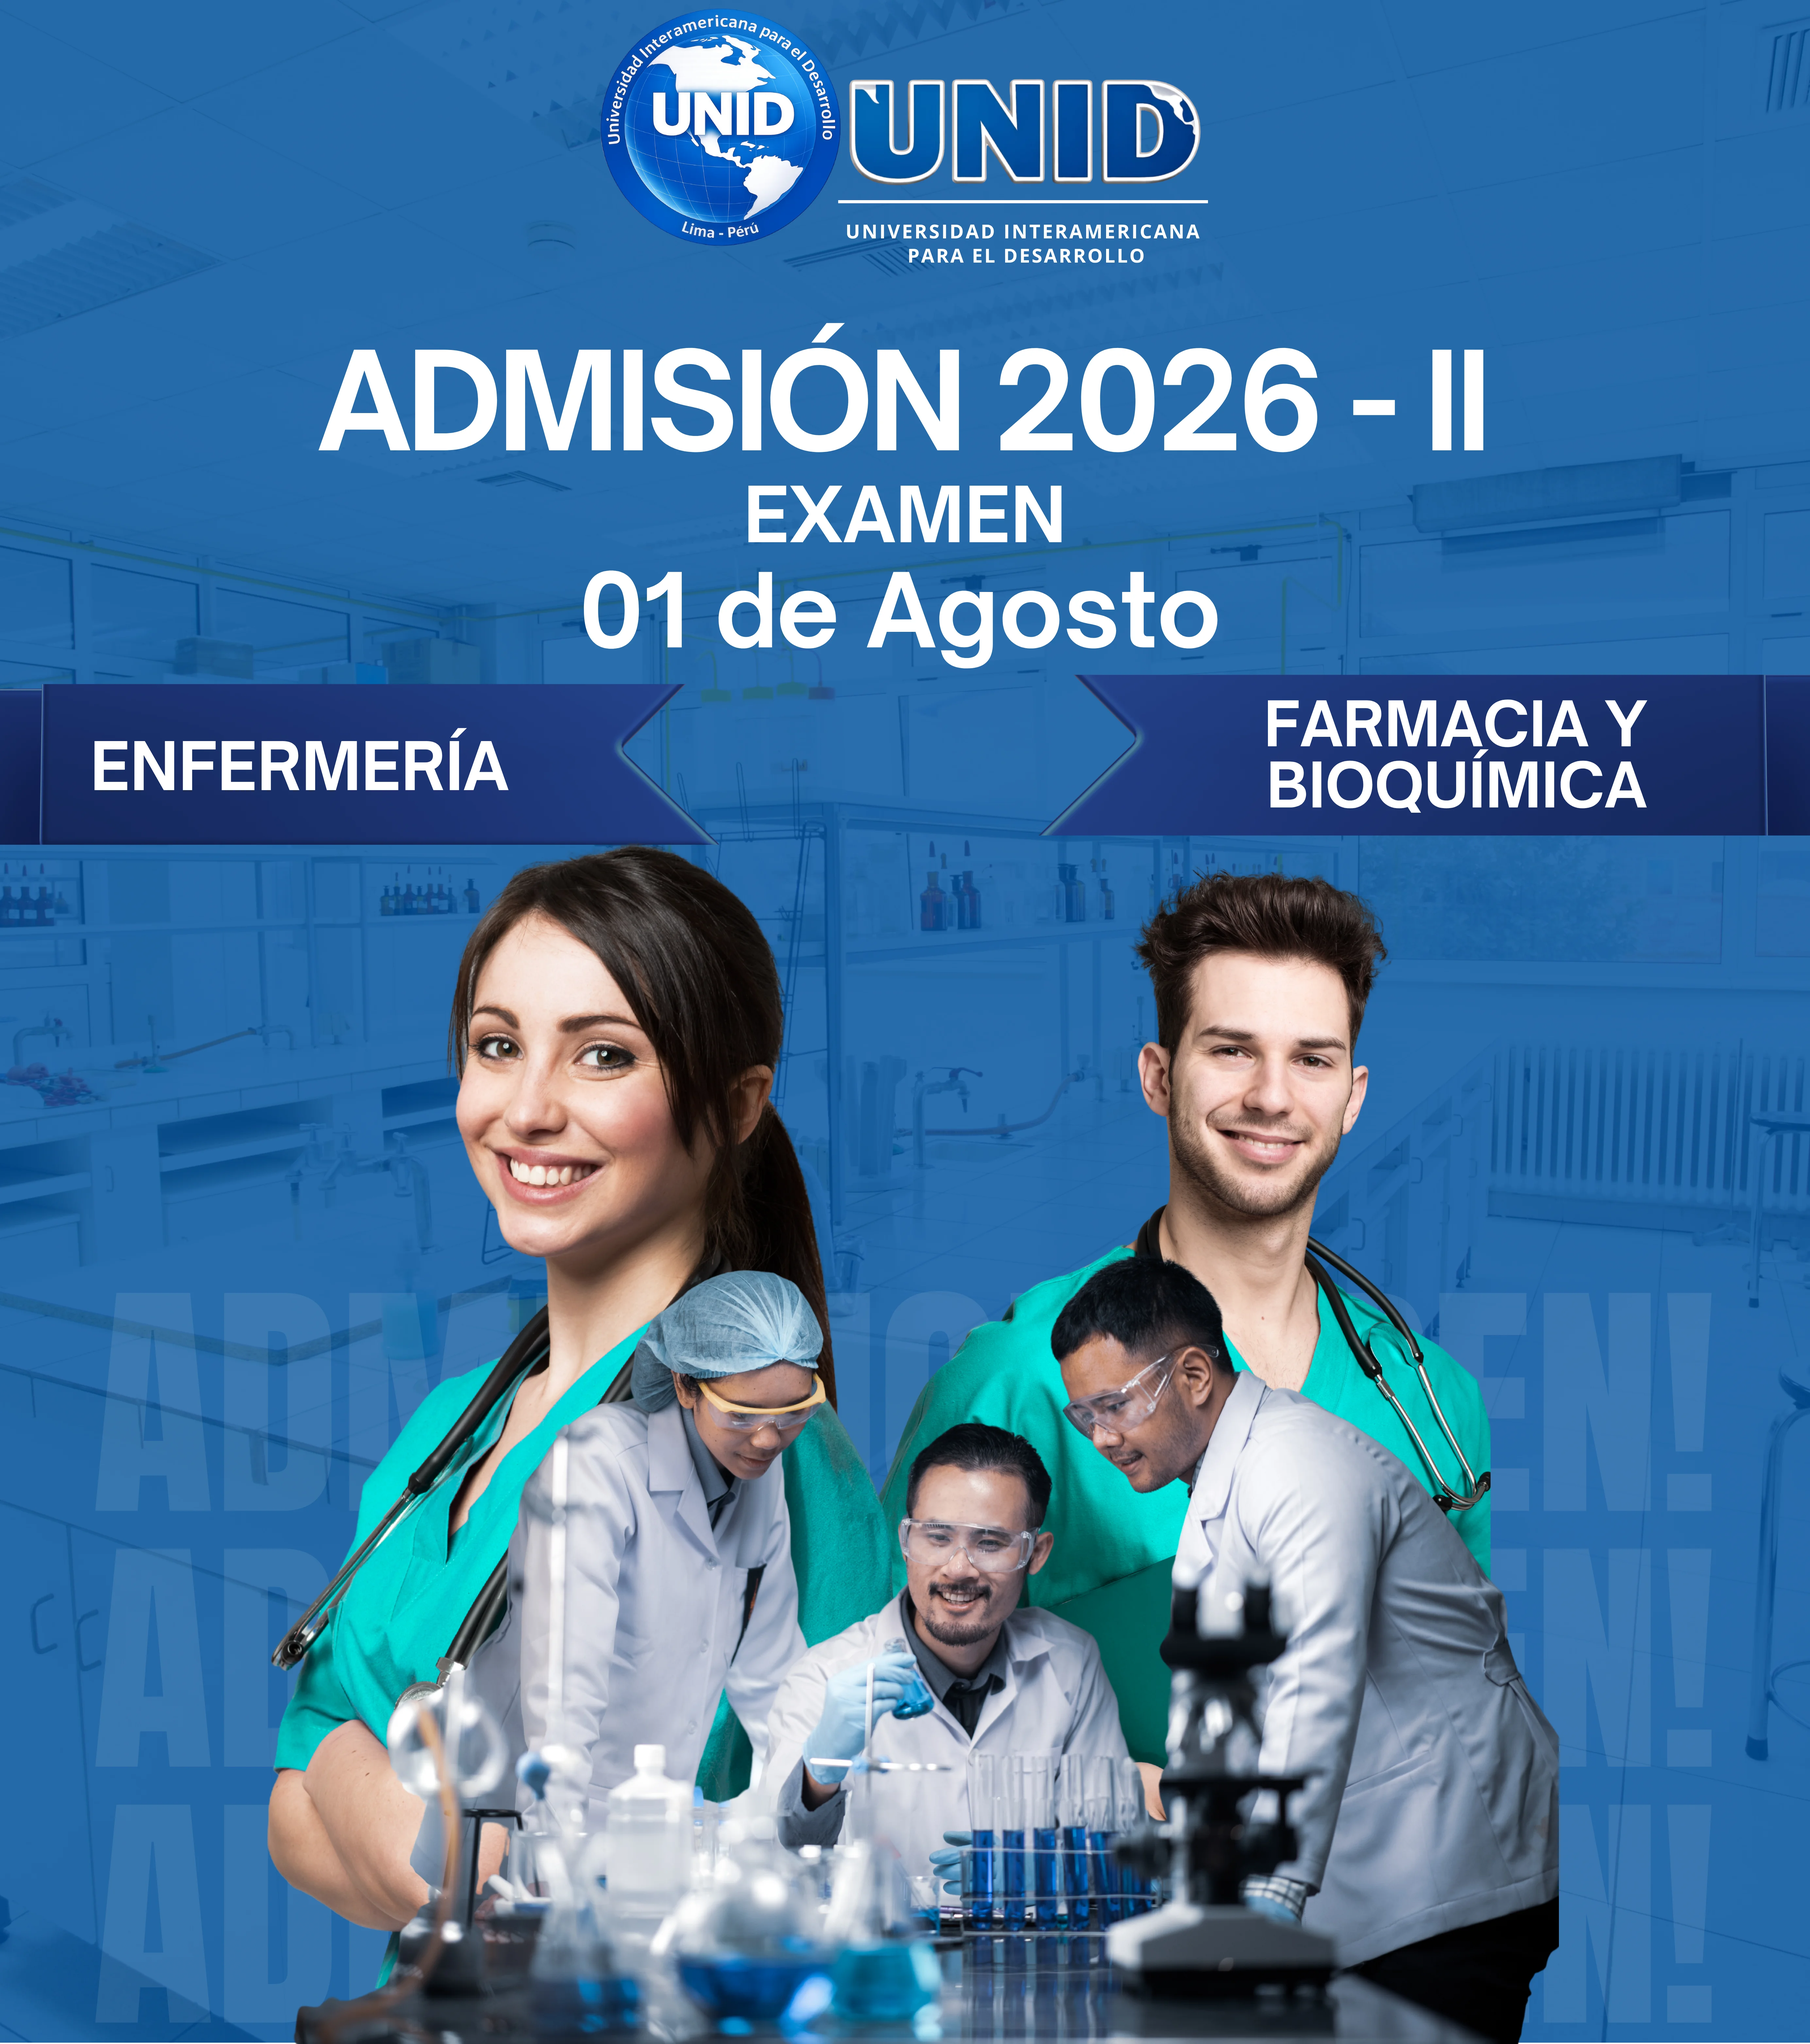
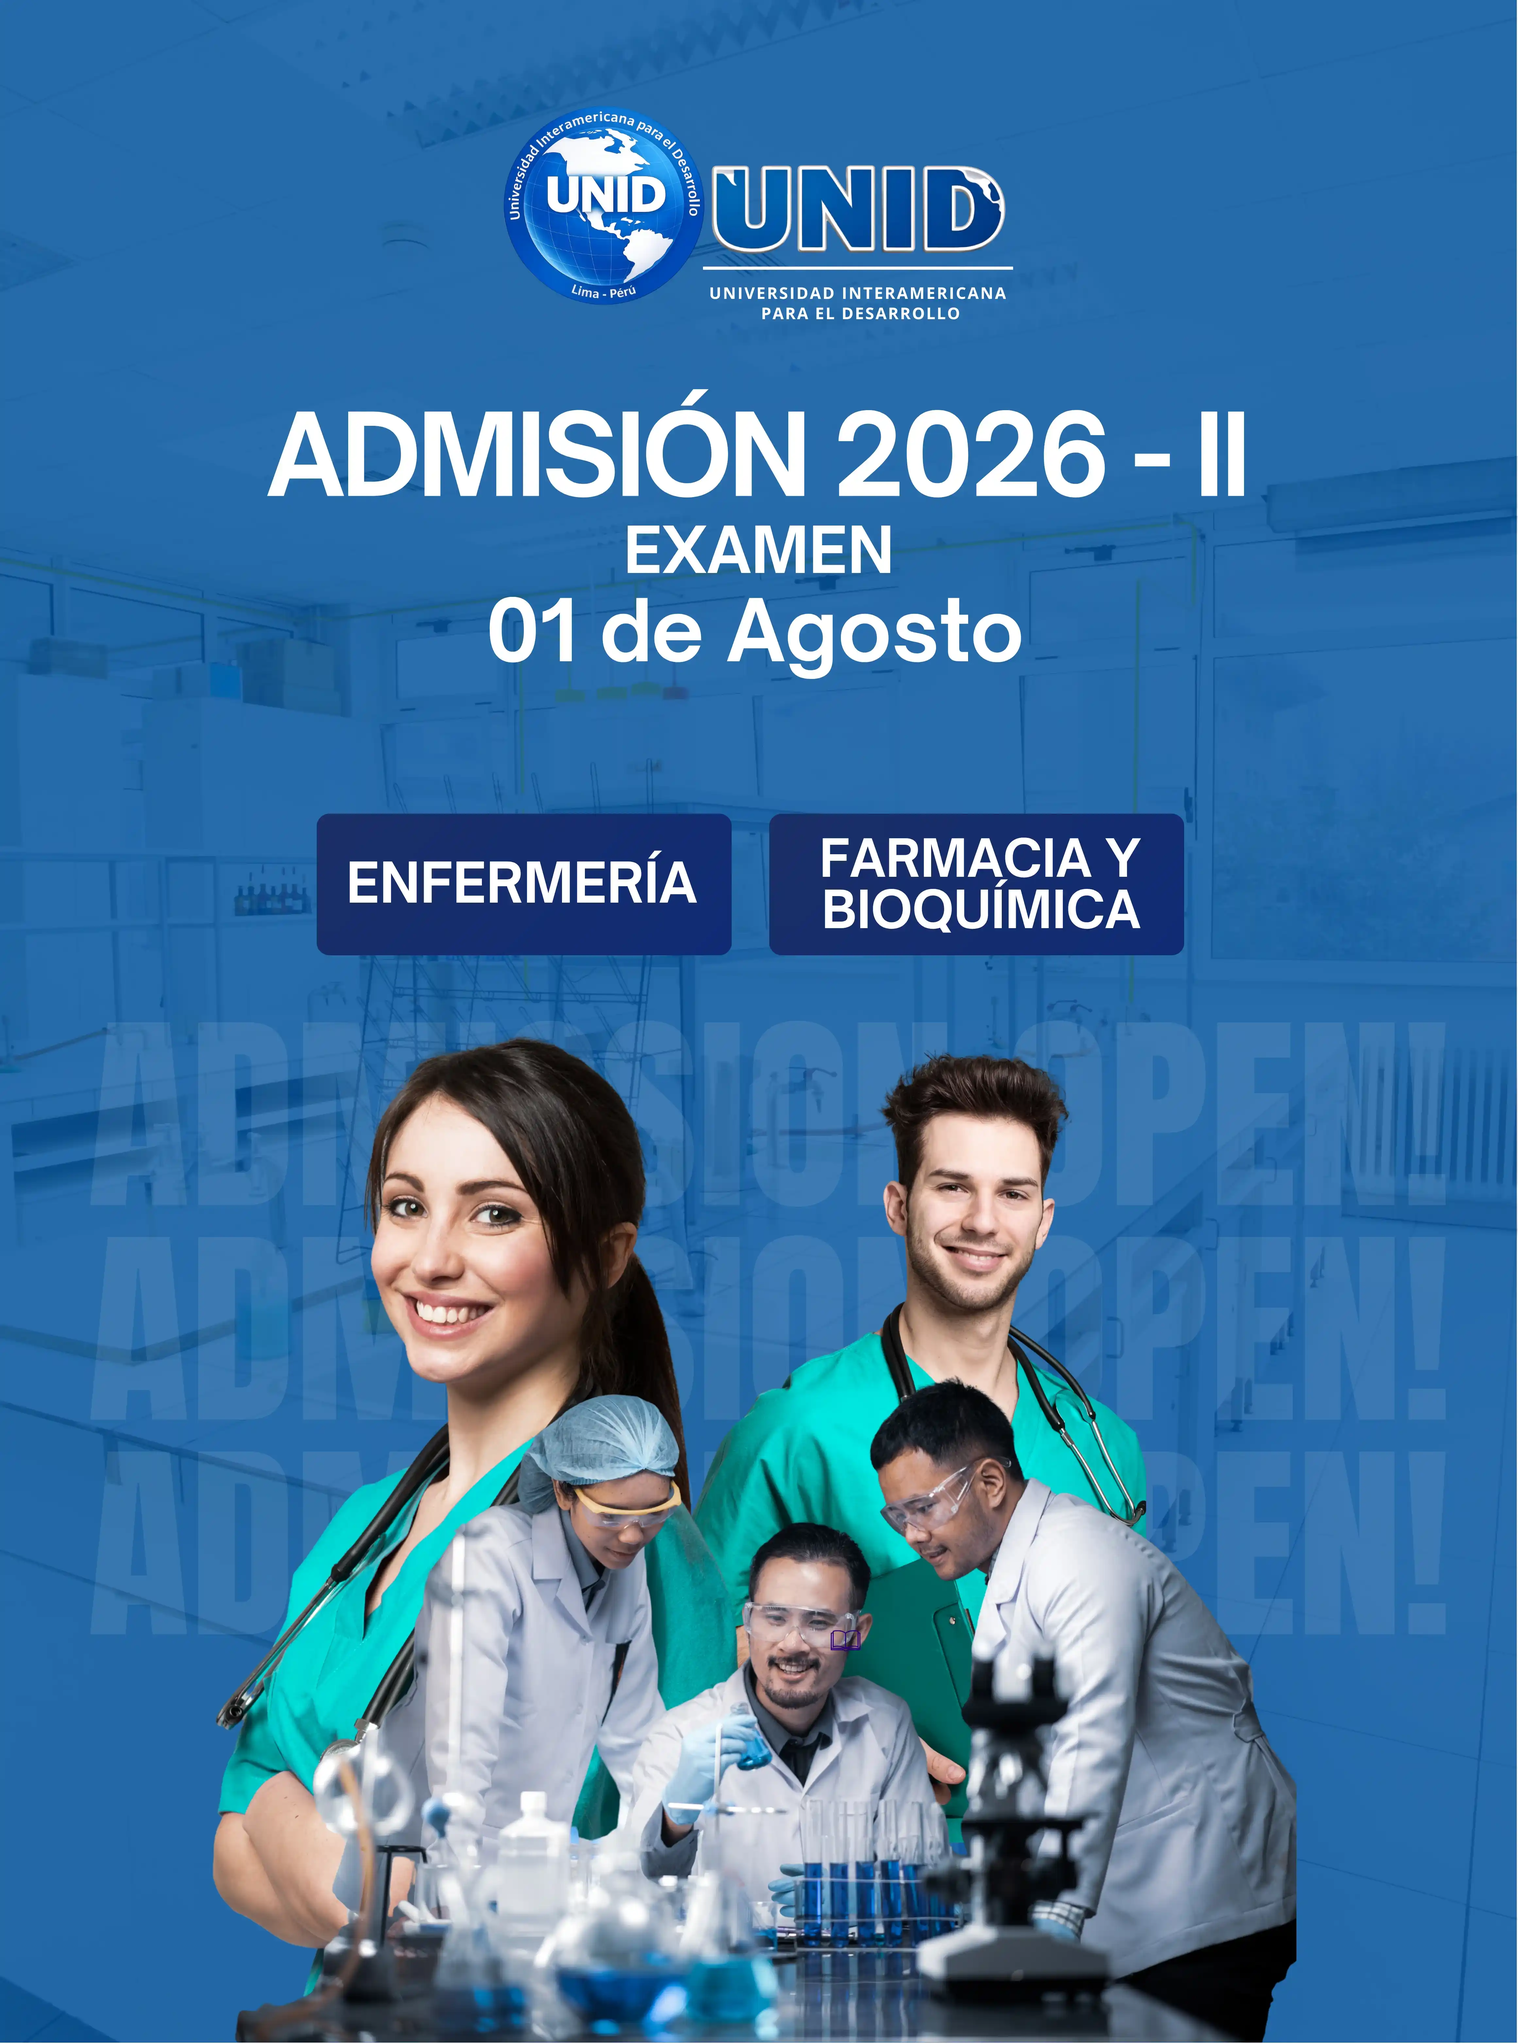
OK

diff --git a/components/welcome-popup.tsx b/components/welcome-popup.tsx
@@ -7,6 +7,24 @@ import { motion, AnimatePresence } from "framer-motion"
 
 export function WelcomePopup() {
   const [isOpen, setIsOpen] = useState(false)
+  const [currentSlide, setCurrentSlide] = useState(0)
+
+  const slides = [
+    {
+      id: 1,
+      src: "/images/admision-agosto.webp",
+      alt: "Admisión Agosto",
+      link: "https://erpeduca.unidx.edu.pe/admision/proceso/InscripcionPostulante/ingresoExterno/inscripcionPostulanteExterno/universidad",
+      buttonText: "Inscríbete ahora"
+    },
+    {
+      id: 2,
+      src: "/images/popup-postgrado.webp",
+      alt: "Admisión Postgrado",
+      link: "https://erpeduca.unidx.edu.pe/admision/proceso/InscripcionPostulante/ingresoExterno/inscripcionPostulanteExterno/universidad",
+      buttonText: "Inscríbete ahora"
+    }
+  ]
 
   useEffect(() => {
     // Check if user has already seen the welcome popup during this session
@@ -21,6 +39,30 @@ export function WelcomePopup() {
       return () => clearTimeout(timer)
     }
   }, [])
+
+  // Lock body scroll when popup is open
+  useEffect(() => {
+    if (isOpen) {
+      document.body.style.overflow = "hidden"
+    } else {
+      document.body.style.overflow = "unset"
+    }
+
+    return () => {
+      document.body.style.overflow = "unset"
+    }
+  }, [isOpen])
+
+  // Slideshow interval
+  useEffect(() => {
+    if (!isOpen) return
+
+    const timer = setInterval(() => {
+      setCurrentSlide((prev) => (prev + 1) % slides.length)
+    }, 4000)
+
+    return () => clearInterval(timer)
+  }, [isOpen, slides.length])
 
   const handleClose = () => {
     setIsOpen(false)
@@ -41,58 +83,79 @@ export function WelcomePopup() {
             onClick={handleClose}
           />
 
-          {/* Close Button - positioned absolutely inside viewport */}
-          <motion.button
-            initial={{ opacity: 0, scale: 0.8 }}
-            animate={{ opacity: 1, scale: 1 }}
-            exit={{ opacity: 0, scale: 0.8 }}
-            transition={{ delay: 0.15 }}
-            onClick={handleClose}
-            className="absolute top-4 right-4 sm:top-6 sm:right-6 z-[1000] bg-white/10 hover:bg-white/20 text-white hover:text-red-400 rounded-full p-2.5 border border-white/20 shadow-xl transition-all duration-300 hover:scale-110 cursor-pointer"
-            aria-label="Cerrar ventana de bienvenida"
-          >
-            <X className="w-6 h-6 sm:w-7 sm:h-7" />
-          </motion.button>
-
-          {/* Modal Image Container (Social Media Card Style) */}
+          {/* Modal Image Container */}
           <motion.div
             initial={{ opacity: 0, scale: 0.92 }}
             animate={{ opacity: 1, scale: 1 }}
             exit={{ opacity: 0, scale: 0.92 }}
             transition={{ type: "spring", damping: 25, stiffness: 280 }}
-            className="relative flex flex-col w-full max-w-[340px] bg-white rounded-2xl sm:rounded-3xl shadow-2xl border border-gray-100 overflow-hidden max-h-[82vh] sm:max-h-[85vh]"
+            className="relative flex flex-col w-full max-w-[360px] bg-transparent rounded-md shadow-2xl overflow-hidden max-h-[90vh]"
             onClick={(e) => e.stopPropagation()}
           >
-            {/* Post Image Body */}
-            <div className="relative w-full overflow-hidden bg-white">
-              <Image
-                src="/images/admision-agosto.webp"
-                alt="Admisión Agosto"
-                width={1200}
-                height={1200}
-                className="w-full h-auto block"
-                priority
-              />
-            </div>
+            {/* Close Button - inside popup top right */}
+            <button
+              onClick={handleClose}
+              className="absolute top-3 right-3 z-[1010] bg-black/30 hover:bg-black/50 text-white rounded-full p-1.5 border-[1.5px] border-white/80 transition-all duration-300 hover:scale-110 cursor-pointer backdrop-blur-sm"
+              aria-label="Cerrar ventana de bienvenida"
+            >
+              <X className="w-5 h-5" />
+            </button>
 
-            {/* Post Actions / Footer */}
-            <div className="p-4 bg-white border-t border-gray-100 flex flex-col">
-              <motion.div
-                initial={{ opacity: 0, y: 10 }}
-                animate={{ opacity: 1, y: 0 }}
-                transition={{ delay: 0.2 }}
-                className="w-full"
-              >
-                <a
-                  href="https://erpeduca.unidx.edu.pe/admision/proceso/InscripcionPostulante/ingresoExterno/inscripcionPostulanteExterno/universidad"
-                  target="_blank"
-                  rel="noopener noreferrer"
-                  className="w-full py-3.5 bg-gradient-to-r from-blue-600 to-indigo-700 hover:from-blue-500 hover:to-indigo-600 text-white font-bold text-sm sm:text-base rounded-xl shadow-md hover:shadow-blue-500/20 hover:scale-[1.02] active:scale-[0.98] transition-all duration-300 flex items-center justify-center gap-2 group cursor-pointer z-50 uppercase tracking-wide text-center"
+            {/* Post Image Body */}
+            <div className="relative w-full overflow-hidden bg-transparent rounded-md h-[560px] sm:h-[580px]">
+              <AnimatePresence>
+                <motion.div
+                  key={currentSlide}
+                  initial={{ opacity: 0 }}
+                  animate={{ opacity: 1 }}
+                  exit={{ opacity: 0 }}
+                  transition={{ duration: 0.8, ease: "easeInOut" }}
+                  className="absolute inset-0"
                 >
-                  Inscríbete Ahora
-                  <span className="inline-block transition-transform duration-300 group-hover:translate-x-1">→</span>
-                </a>
-              </motion.div>
+                  <Image
+                    src={slides[currentSlide].src}
+                    alt={slides[currentSlide].alt}
+                    fill
+                    className="object-cover block rounded-md"
+                    priority
+                  />
+                </motion.div>
+              </AnimatePresence>
+              
+              {/* Overlay Gradient at the bottom to ensure button readability if needed */}
+              <AnimatePresence>
+                {currentSlide === 0 && (
+                  <motion.div
+                    initial={{ opacity: 0 }}
+                    animate={{ opacity: 1 }}
+                    exit={{ opacity: 0 }}
+                    transition={{ duration: 0.4 }}
+                    className="absolute bottom-0 left-0 right-0 h-32 bg-gradient-to-t from-black/60 to-transparent pointer-events-none rounded-b-md z-10"
+                  />
+                )}
+              </AnimatePresence>
+
+              {/* Button Overlaid at the bottom */}
+              <AnimatePresence>
+                {currentSlide === 0 && (
+                  <motion.div
+                    initial={{ opacity: 0, y: 10 }}
+                    animate={{ opacity: 1, y: 0 }}
+                    exit={{ opacity: 0, y: 10 }}
+                    transition={{ duration: 0.4 }}
+                    className="absolute bottom-6 left-0 right-0 px-6 flex justify-center z-20"
+                  >
+                    <a
+                      href={slides[currentSlide].link}
+                      target="_blank"
+                      rel="noopener noreferrer"
+                      className="px-8 py-3.5 bg-[#0023bf] hover:bg-[#001da0] text-white font-bold text-[15px] sm:text-base rounded-full shadow-lg shadow-blue-900/40 hover:shadow-blue-900/60 hover:scale-[1.05] active:scale-[0.98] transition-all duration-300 flex items-center justify-center gap-2 tracking-wide"
+                    >
+                      {slides[currentSlide].buttonText}
+                    </a>
+                  </motion.div>
+                )}
+              </AnimatePresence>
             </div>
           </motion.div>
         </div>
